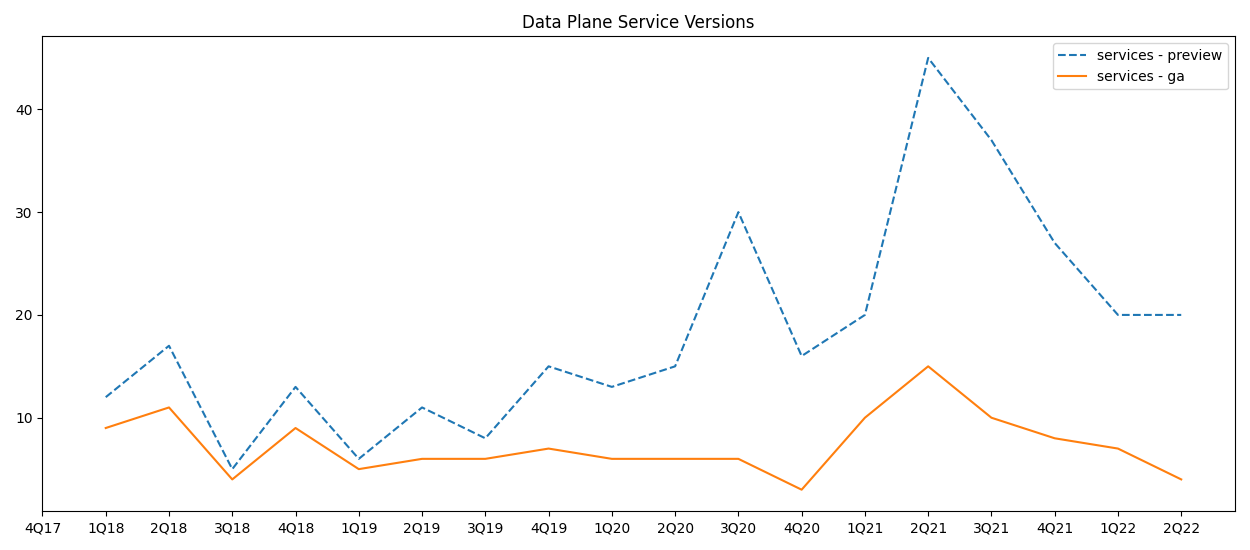
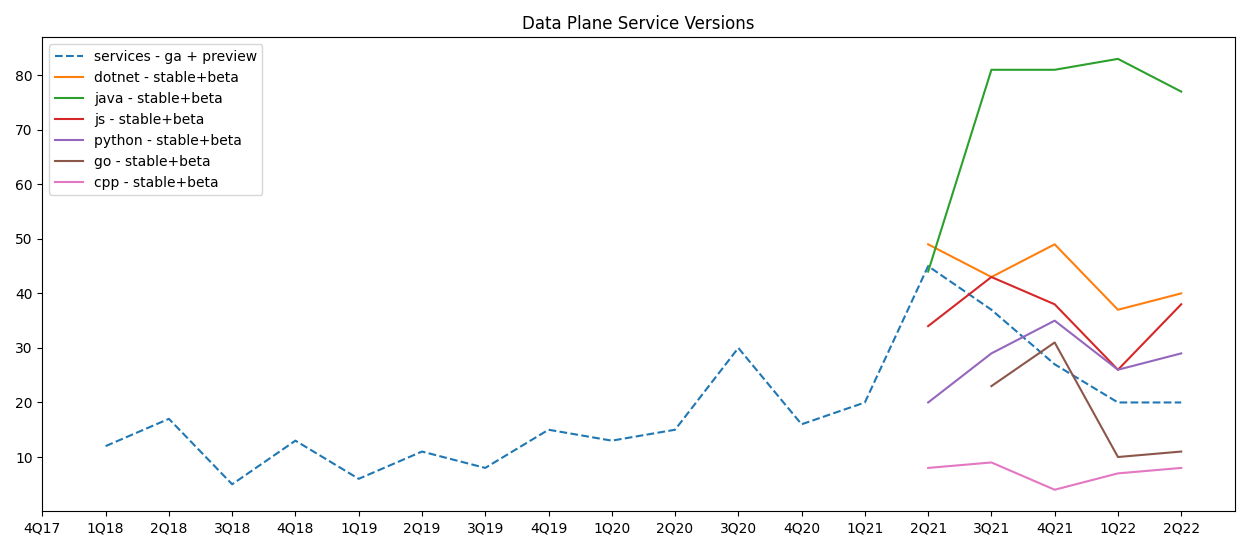
Improved service/package versions accounting and graphs

diff --git a/serviceVersionsGraph.py b/serviceVersionsGraph.py
@@ -4,10 +4,11 @@
 # pylint: disable=cspell-checker
 
 import csv
-import itertools
+import glob
 import matplotlib.pyplot as plt
-# import os
-# import re
+import os
+import re
+import yaml
 
 # Cannot use numpy genfromtxt as it does not handle commas within quotes
 def loadcsv(filename):
@@ -17,6 +18,15 @@ def loadcsv(filename):
 
 qvals = ['03-31', '06-30', '09-30', '12-31']
 
+# Convert yyyy-mm to yyyy-mm-dd of quarter
+def quarter_from_date(date):
+    if re.match('\d{4}-\d\d$', date):
+        month = int(date[-2:]) - 1 # 0 based
+        quarter = int(month/3)
+        year = date[:4]
+        return f'{year}-{qvals[quarter]}'
+    return None
+
 # Convert yyyy-mm-dd to nQyy
 def qlabel(date):
     month = int(date[5:7]) - 1 # 0 based
@@ -24,26 +34,83 @@ def qlabel(date):
     year = date[2:4]
     return f'{quarter}Q{year}'
 
-services = loadcsv('serviceVersions.csv')
-quarters = [x[0] for x in services[1:]]
+# Return True if the package is a mgmt plane package
+# Need to pass in the language to use the right convention
+# - DotNet mgmt plane package names start with "Azure.ResourceManager."
+# - Go: mgmt plane package names start with "sdk/resourcemanager
+# - Java: mgmt plane package names start with "azure-resourcemanager-"
+# - JavaScript: mgmt plane package names start with "@azure/arm-"
+# - Python: mgmt plane package names start with 'azure-mgmt-'
+def mgmtplane_pkg(lang, name):
+    if lang == 'dotnet':
+        return name.startswith('Azure.ResourceManager.')
+    elif lang == 'go':
+        return name.startswith('sdk/resourcemanager')
+    elif lang == 'java':
+        return name.startswith('azure-resourcemanager-')
+    elif lang == 'js':
+        return name.startswith('@azure/arm-')
+    elif lang == 'python':
+        return name.startswith('azure-mgmt-')
+    else:
+        return False
+
+serviceVersions = loadcsv('serviceVersions.csv')
+
+# Drop initial quarters with zero service versions
+first_qtr = next((i for i in range(1,len(serviceVersions)) if any(v != '0' for v in serviceVersions[i][1:])))
+serviceVersions[1:] = serviceVersions[first_qtr:]
+
+quarters = [x[0] for x in serviceVersions[1:]]
+langs = ['dotnet', 'java', 'js', 'python', 'go', 'cpp']
+
+# # Pull in the latest version of the Azure SDK repo
+# os.system('rm -rf azure-sdk')
+# os.system('git clone https://github.com/Azure/azure-sdk.git')
+os.chdir('azure-sdk')
+
+dataplane_packages = {lang:{key: set() for key in quarters} for lang in langs}
+mgmtplane_packages = {lang:{key: set() for key in quarters} for lang in langs}
+
+monthly_dirs = [y for y in [os.path.basename(x) for x in glob.glob('_data/releases/*')] if re.match('\d{4}-\d{2}', y)]
+for dir in monthly_dirs:
+    quarter = quarter_from_date(dir)
+    if quarter not in quarters:
+        continue
+    for lang in langs:
+        try:
+            with open(f'_data/releases/{dir}/{lang}.yml', "r") as stream:
+                data = yaml.safe_load(stream)
+                beta_or_ga = [x for x in data['entries'] if x['VersionType'] in ['Beta', 'GA']]
+                # Separate out the dataplane and management plane packages
+                mp = {x['Name'] for x in beta_or_ga if mgmtplane_pkg(lang, x['Name'])}
+                dp = {x['Name'] for x in beta_or_ga if x['Name'] not in mp}
+                mgmtplane_packages[lang][quarter].update(mp)
+                dataplane_packages[lang][quarter].update(dp)
+        except FileNotFoundError:
+            pass
+        except yaml.YAMLError as exc:
+            print(f'YAML Error:\n{exc}')
+        except KeyError as exc:
+            print(f'KeyError: _data/releases/{dir}/{lang}.yml\n{exc}')
+
+os.chdir('..')
 
 # Help on matplotlib
 # https://matplotlib.org/stable/gallery/index.html
-
-def moving_average(data, window_size):
-    ma = (window_size - 1) * [None]
-    ma += [sum(data[i:i+window_size])/float(window_size) for i in range(len(data)-window_size+1)]
-    return ma
 
 # Data plane services
 fig = plt.figure(figsize=(12.5, 5.5))
 plt.title('Data Plane Service Versions')
 # plot preview services as dashed line
-plt.plot(quarters, [None]+[int(x[3])+int(x[4]) for x in services[2:]], linestyle='--')
-plt.plot(quarters, [None]+[int(x[3]) for x in services[2:]])
-#plt.plot(quarters, [None]+moving_average([int(x[3])+int(x[4]) for x in services[2:]], 4))
+plt.plot(quarters, [None]+[int(x[3])+int(x[4]) for x in serviceVersions[2:]], linestyle='--')
 
-plt.legend(['services - preview', 'services - ga']) #, 'ga+preview - 4 quarter moving avg'])
+# Now plot the packages
+for lang in langs:
+    counts = [len(v) for (k,v) in dataplane_packages[lang].items()]
+    plt.plot(quarters, [x if x>0 else None for x in counts])
+
+plt.legend(['services - ga + preview'] + [f'{x} - stable+beta' for x in langs], loc='upper left')
 # Make the labels compact
 qlabels = [qlabel(x) for x in quarters]
 plt.xticks(quarters, qlabels)
@@ -55,10 +122,14 @@ fig.savefig('dataplane-versions.png')
 fig = plt.figure(figsize=(12.5, 5.5))
 plt.title('Management Plane Service Versions')
 # plot preview services as dashed line
-plt.plot(quarters, [None]+[int(x[1])+int(x[2]) for x in services[2:]], linestyle='--')
-plt.plot(quarters, [None]+[int(x[1]) for x in services[2:]])
+plt.plot(quarters, [None]+[int(x[1])+int(x[2]) for x in serviceVersions[2:]], linestyle='--')
 
-plt.legend(['services - preview', 'services - ga'])
+# Now plot the packages
+for lang in langs:
+    counts = [len(v) for (k,v) in mgmtplane_packages[lang].items()]
+    plt.plot(quarters, [x if x>0 else None for x in counts])
+
+plt.legend(['services - ga + preview'] + [f'{x} - stable+beta' for x in langs], loc='upper left')
 # Make the labels compact
 qlabels = [qlabel(x) for x in quarters]
 plt.xticks(quarters, qlabels)
